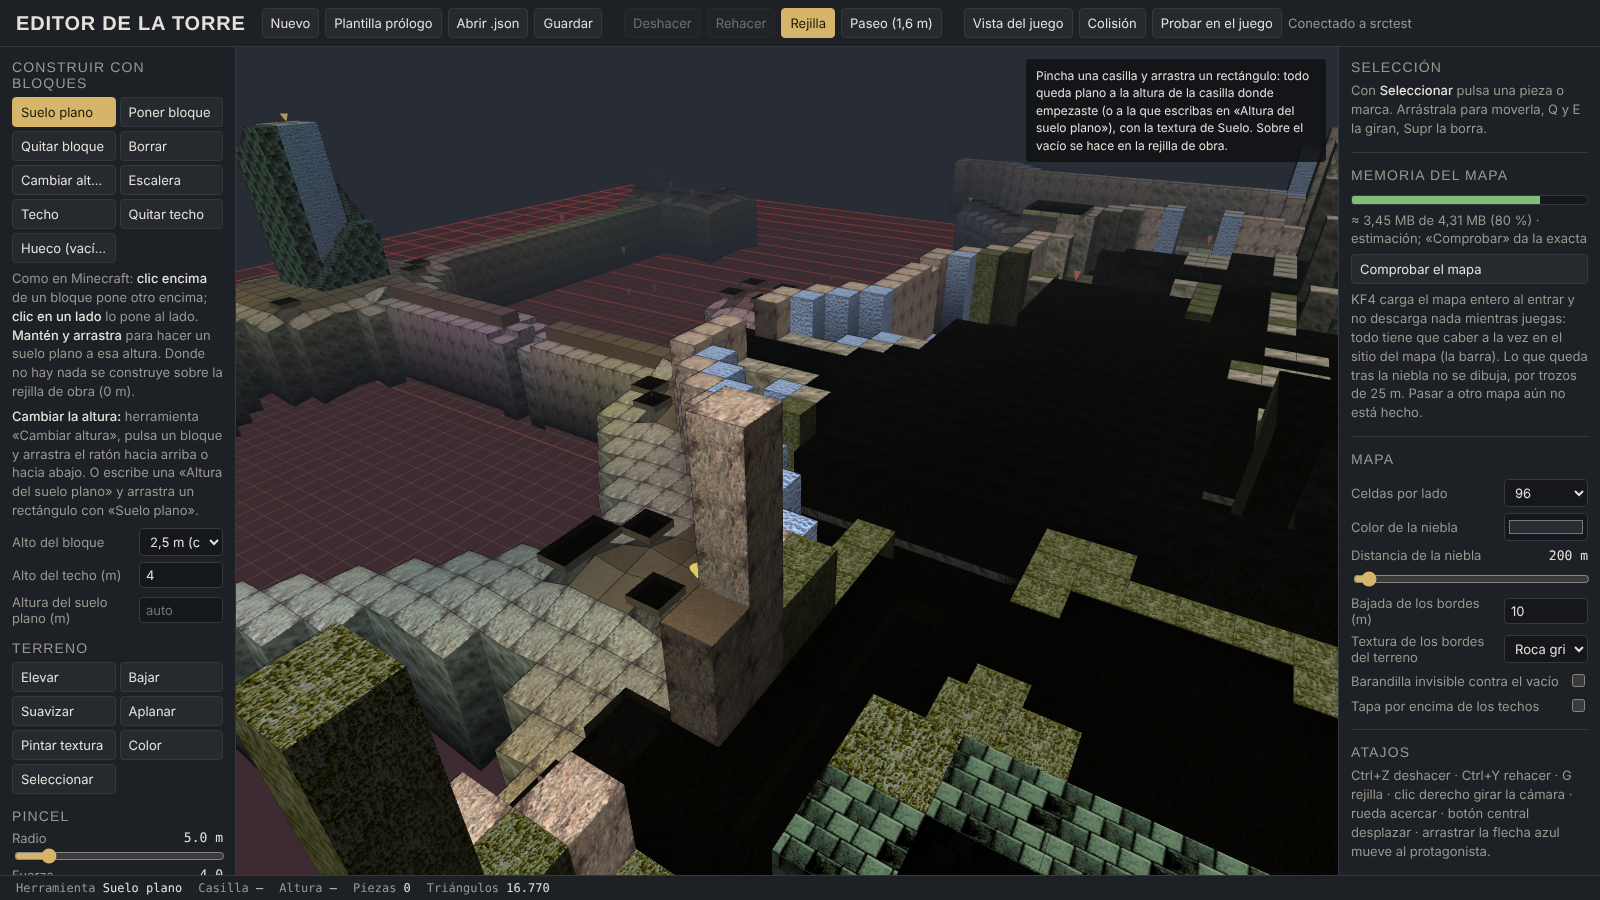
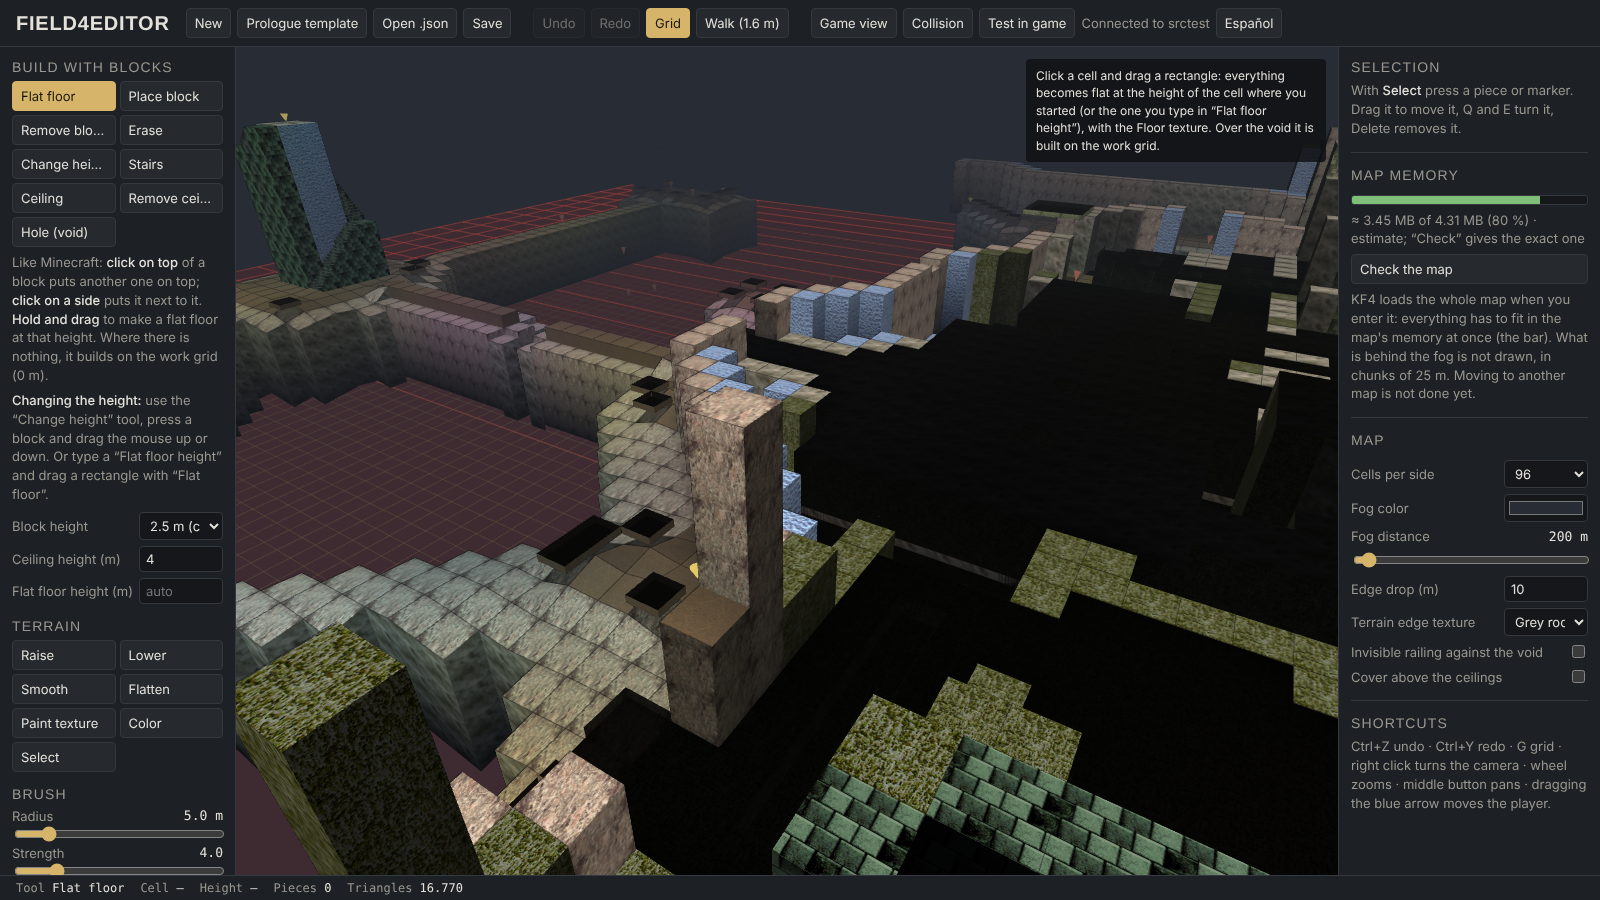
Field4Editor: English by default with a language button
Claude-Session: https://claude.ai/code/session_012tCJYJKWJWe7VZwVvKdQwq

diff --git a/engine/editor_torre.html b/engine/editor_torre.html
@@ -1,4 +1,4 @@
-<title>Editor de La Torre</title>
+<title>Field4Editor</title>
 <meta name="claude:viewport-fit-sides" content="cover">
 <link rel="preconnect" href="https://fonts.googleapis.com">
 <link rel="stylesheet" href="https://fonts.googleapis.com/css2?family=Barlow+Condensed:wght@500;700&family=IBM+Plex+Sans:wght@400;500&family=IBM+Plex+Mono:wght@400&display=swap">
@@ -103,7 +103,7 @@ dialog textarea { width: 100%; height: 300px; background: var(--bg); color: var(
 
 <div class="app">
   <header>
-    <h1>Editor de La Torre</h1>
+    <h1>Field4Editor</h1>
     <button id="bNuevo" title="Mapa vacío con una meseta">Nuevo</button>
     <button id="bPlantilla" title="La aldea, el puente y la torre">Plantilla prólogo</button>
     <button id="bAbrir">Abrir .json</button>
@@ -1827,5 +1827,169 @@ window.__editor = { camara, controles, get M() { return M; }, construirMundo, ce
   ponerAltura(i, j, h) { historial(); ponerAltura(i, j, h); todo(); },
   medirParcial(i, j, h) { ponerAltura(i, j, h); const t0 = performance.now(); construirMundoAhora(); return performance.now() - t0; },
   escaleraPrueba(a, b) { historial(); const p = planEscalera(a, topeCelda(...a), b, topeCelda(...b)); const { tS, tP } = texturasObra(); p.celdas.forEach(({ i, j, esc }) => { M.celdas[i + "," + j] = { f: esc[2], tex: tS, pared: tP, esc }; }); todo(); return p; } };
+})();
+</script>
+<script>
+// ---------------------------------------------------------------- idioma (Field4Editor): inglés por defecto
+// Traduce lo que se ve (textos, title, placeholder) sin tocar la lógica: un observador cambia cada texto en
+// español que aparece en la página por el suyo en inglés. El botón ES/EN guarda la elección y recarga.
+(function () {
+  let lang = "en";
+  try { lang = localStorage.getItem("field4editor_lang") || "en"; } catch (e) {}
+  const EN = {
+    "Editor de La Torre": "Field4Editor", "Field4Editor": "Field4Editor",
+    "Mapa vacío con una meseta": "Empty map with a plateau", "Nuevo": "New",
+    "La aldea, el puente y la torre": "The village, the bridge and the tower", "Plantilla prólogo": "Prologue template",
+    "Abrir .json": "Open .json", "Guardar mapa_torre.json": "Save mapa_torre.json", "Deshacer": "Undo", "Rehacer": "Redo",
+    "Rejilla": "Grid", "Pasear a la altura del jugador": "Walk around at the player's height", "Paseo (1,6 m)": "Walk (1.6 m)",
+    "Los .png que saca EXPORTAR_TEXTURAS.bat de tu ISO": "The .png files EXPORTAR_TEXTURAS.bat extracts from your ISO",
+    "Texturas del juego": "Game textures", "El mapa tal como lo construye el generador para la ISO": "The map exactly as the generator builds it for the ISO",
+    "Vista del juego": "Game view", "Paredes en rojo y suelos en verde, tal como irán al juego": "Walls in red and floors in green, as they will go into the game",
+    "Colisión": "Collision", "Guarda, genera la ISO y abre PCSX2": "Saves, builds the ISO and opens PCSX2", "Probar en el juego": "Test in game",
+    "Construir con bloques": "Build with blocks", "Como en Minecraft:": "Like Minecraft:", "clic encima": "click on top",
+    "de un bloque pone otro encima;": "of a block puts another one on top;", "clic en un lado": "click on a side",
+    "lo pone al lado.": "puts it next to it.", "Mantén y arrastra": "Hold and drag",
+    "para hacer un suelo plano a esa altura. Donde no hay nada se construye sobre la rejilla de obra (0 m).": "to make a flat floor at that height. Where there is nothing, it builds on the work grid (0 m).",
+    "Cambiar la altura:": "Changing the height:",
+    "herramienta «Cambiar altura», pulsa un bloque y arrastra el ratón hacia arriba o hacia abajo. O escribe una «Altura del suelo plano» y arrastra un rectángulo con «Suelo plano».": "use the “Change height” tool, press a block and drag the mouse up or down. Or type a “Flat floor height” and drag a rectangle with “Flat floor”.",
+    "Alto del bloque": "Block height", "0,25 m": "0.25 m", "0,5 m": "0.5 m", "1,25 m": "1.25 m", "2,5 m (cubo)": "2.5 m (cube)",
+    "Alto del techo (m)": "Ceiling height (m)", "Altura del suelo plano (m)": "Flat floor height (m)",
+    "Terreno": "Terrain", "Pincel": "Brush", "Radio": "Radius", "Fuerza": "Strength", "Escalón de altura": "Height step",
+    "Texturas": "Textures", "Color de vértice": "Vertex color", "Color para pintar": "Paint color", "Pincel de color": "Color brush",
+    "Vértice exacto": "Exact vertex", "Suave (radio)": "Soft (radius)", "Pintar color": "Paint color",
+    "Los puntos blancos marcan los vértices que vas a pintar. Con": "The white dots mark the vertices you will paint. With",
+    "pintas solo la esquina más cercana: oscurece la esquina de un cubo y la cara hace el degradado sola. Con": "you only paint the nearest corner: darken a cube's corner and the face makes the gradient by itself. With",
+    "Suave": "Soft",
+    "pintas todo lo que cabe en el Radio. El juego guarda ese color en cada vértice; «Quitar color» lo deja como estaba.": "you paint everything within the Radius. The game stores that color in each vertex; “Remove color” puts it back as it was.",
+    "Piezas": "Pieces", "Marcas": "Markers", "El protagonista es la flecha": "The player is the", "azul": "blue arrow",
+    ": arrástrala con cualquier herramienta para moverlo, y con ella elegida, Q y E lo giran. Lo mismo con el guardado (turquesa), los objetos (amarillo) y los enemigos (rojo).": ": drag it with any tool to move it, and with it selected, Q and E turn it. The same goes for the save point (turquoise), items (yellow) and enemies (red).",
+    "Paseo · W A S D andar · arrastra para mirar · Esc salir": "Walk · W A S D to move · drag to look · Esc to exit",
+    "Selección": "Selection", "Con": "With", "Seleccionar": "Select",
+    "pulsa una pieza o marca. Arrástrala para moverla, Q y E la giran, Supr la borra.": "press a piece or marker. Drag it to move it, Q and E turn it, Delete removes it.",
+    "Memoria del mapa": "Map memory", "Monta el 099.map entero como Probar en el juego, sin tocar la ISO": "Builds the whole 099.map like Test in game, without touching the ISO",
+    "Comprobar el mapa": "Check the map",
+    "KF4 carga el mapa entero al entrar y no descarga nada mientras juegas: todo tiene que caber a la vez en el sitio del mapa (la barra). Lo que queda tras la niebla no se dibuja, por trozos de": "KF4 loads the whole map when you enter it: everything has to fit in the map's memory at once (the bar). What is behind the fog is not drawn, in chunks of",
+    "m. Pasar a otro mapa aún no está hecho.": "m. Moving to another map is not done yet.",
+    "Mapa": "Map", "Celdas por lado": "Cells per side", "Color de la niebla": "Fog color", "Distancia de la niebla": "Fog distance",
+    "Bajada de los bordes (m)": "Edge drop (m)", "Textura de los bordes del terreno": "Terrain edge texture",
+    "Barandilla invisible contra el vacío": "Invisible railing against the void", "Tapa por encima de los techos": "Cover above the ceilings",
+    "Atajos": "Shortcuts",
+    "Ctrl+Z deshacer · Ctrl+Y rehacer · G rejilla · clic derecho girar la cámara · rueda acercar · botón central desplazar · arrastrar la flecha azul mueve al protagonista.": "Ctrl+Z undo · Ctrl+Y redo · G grid · right click turns the camera · wheel zooms · middle button pans · dragging the blue arrow moves the player.",
+    "Herramienta": "Tool", "Casilla": "Cell", "Altura": "Height", "Triángulos": "Triangles",
+    "Este visor no deja guardar el archivo directamente. Copia el texto y guárdalo como mapa_torre.json en la carpeta del juego.": "This viewer can't save the file directly. Copy the text and save it as mapa_torre.json in the game folder.",
+    "Copiar": "Copy", "Cerrar": "Close",
+    // herramientas
+    "Suelo plano": "Flat floor", "Poner bloque": "Place block", "Quitar bloque": "Remove block", "Borrar": "Erase",
+    "Cambiar altura": "Change height", "Escalera": "Stairs", "Techo": "Ceiling", "Quitar techo": "Remove ceiling", "Hueco (vacío)": "Hole (void)",
+    "Elevar": "Raise", "Bajar": "Lower", "Suavizar": "Smooth", "Aplanar": "Flatten", "Pintar textura": "Paint texture", "Color": "Color",
+    "Inicio": "Start", "Guardado": "Save point", "Objeto": "Item", "Enemigo": "Enemy",
+    "Teñir": "Tint", "Aclarar": "Lighten", "Oscurecer": "Darken", "Quitar color": "Remove color",
+    "Suelo": "Floor", "Pared": "Wall",
+    // piezas, objetos, enemigos, texturas
+    "Casa": "House", "Columna": "Column", "Murete": "Low wall", "Portal": "Gateway", "Escalinata": "Staircase", "Puente": "Bridge",
+    "Barbacana": "Barbican", "Torre": "Tower", "Ruina de columnas": "Column ruin",
+    "Hierba": "Herb", "Jugo herbal": "Herb Juice", "Remedio": "Remedy", "Cachiporra": "Club", "Espada básica": "Basic Sword",
+    "Escudo de madera": "Wooden Shield", "Casco de cuero": "Leather Helm", "Chaleco de retazos": "Patchwork Vest", "Cristal de fuego": "Fire Crystal",
+    "Planta": "Plant", "Escarabajo": "Beetle", "Seta": "Mushroom", "Murciélago": "Bat",
+    "Vacío": "Void", "Losas": "Flagstones", "Sillar": "Ashlar", "Muro": "Wall stone", "Roca": "Rock", "Roca gris": "Grey rock",
+    "Musgo": "Moss", "Grava": "Gravel", "Piedra lisa": "Smooth stone", "Ladrillo": "Brick", "Estrías": "Grooves", "Madera": "Wood",
+    "Friso": "Frieze", "Nicho": "Niche", "Cornisa": "Cornice", "Chimenea": "Chimney", "Pisos": "Floors", "Rota": "Broken",
+    "Tejado hundido": "Collapsed roof", "En ruinas": "Ruined", "Tipo": "Type",
+    // inspector
+    "Alto (m)": "Height (m)", "Alto de la chimenea": "Chimney height", "Alto del tejado": "Roof height",
+    "Altura fija (vacío = el suelo)": "Fixed height (empty = the floor)", "Ancho (m)": "Width (m)", "Fondo (m)": "Depth (m)",
+    "Giro (grados)": "Rotation (degrees)", "Lado (m)": "Side (m)", "Lado de la puerta": "Door side", "Largo (m)": "Length (m)",
+    "Radio (m)": "Radius (m)", "Rumbo (grados)": "Heading (degrees)", "Subida (m)": "Rise (m)",
+    "Inicio del jugador": "Player start", "Objeto del suelo": "Floor item", "Punto de guardado": "Save point",
+    // ayudas
+    "Aplana el terreno a la altura donde empiezas a pintar.": "Flattens the terrain to the height where you start painting.",
+    "Arrastra hasta un bloque de otra altura": "Drag to a block at another height",
+    "Arrastra para quitar el techo de esas casillas.": "Drag to remove the ceiling from those cells.",
+    "Arrastra sobre casillas: techo a la altura del bloque más alto de la zona más el alto del techo. Con paredes alrededor, el interior queda en penumbra.": "Drag over cells: a ceiling at the height of the highest block in the area plus the ceiling height. With walls around, the inside is left in shadow.",
+    "Arrastra: abre el vacío. En el juego, caer ahí mata (la zona roja de abajo).": "Drag: opens the void. In the game, falling there kills you (the red area below).",
+    "Baja el terreno con el pincel.": "Lowers the terrain with the brush.",
+    "Clic en un bloque: le quita uno de alto. Arrastra para rebajar todo a esa altura.": "Click a block: removes one level. Drag to lower everything to that height.",
+    "Clic encima de un bloque: pone otro encima. Clic en un lado: lo pone al lado. Mantén pulsado y arrastra: hace un suelo plano a esa altura. Arriba usa la textura de Suelo y los lados la de Pared.": "Click on top of a block: puts another on top. Click on a side: puts it next to it. Hold and drag: makes a flat floor at that height. The top uses the Floor texture and the sides the Wall one.",
+    "Pincha o arrastra: borra lo que tocas. Un bloque desaparece entero; si ya no queda nada encima del terreno, la casilla se queda vacía.": "Click or drag: erases what you touch. A block goes away entirely; if nothing is left above the terrain, the cell is left empty.",
+    "Pincha una casilla y arrastra un rectángulo: todo queda plano a la altura de la casilla donde empezaste (o a la que escribas en «Altura del suelo plano»), con la textura de Suelo. Sobre el vacío se hace en la rejilla de obra.": "Click a cell and drag a rectangle: everything becomes flat at the height of the cell where you started (or the one you type in “Flat floor height”), with the Floor texture. Over the void it is built on the work grid.",
+    "Pinta el color de los vértices con el modo elegido (teñir, aclarar, oscurecer, quitar).": "Paints the vertex color with the chosen mode (tint, lighten, darken, remove).",
+    "Pinta la textura elegida. Con «Suelo» pinta suelos, con «Pared» las caras de los lados y con «Techo» los techos.": "Paints the chosen texture. With “Floor” it paints floors, with “Wall” the side faces and with “Ceiling” the ceilings.",
+    "Pulsa en el suelo para ponerla.": "Click on the ground to place it.",
+    "Pulsa en el suelo para ponerla. Luego, con Seleccionar, la mueves, giras (Q, E) y ajustas a la derecha.": "Click on the ground to place it. Then, with Select, you move it, turn it (Q, E) and adjust it on the right.",
+    "Pulsa un bloque (o una casilla vacía de la rejilla) y, sin soltar, arrastra el ratón hacia arriba o hacia abajo: sube o baja de bloque en bloque.": "Press a block (or an empty grid cell) and, holding, drag the mouse up or down: it goes up or down one block at a time.",
+    "Pulsa un bloque y, sin soltar, arrastra hasta otro de distinta altura. Al soltar sale la escalera entre los dos, con sus peldaños. Si arrastras también de lado, la escalera es más ancha.": "Press a block and, holding, drag to another one at a different height. When you let go, the stairs appear between them, with their steps. If you also drag sideways, the stairs are wider.",
+    "Pulsa una pieza o marca para editarla; arrástrala para moverla.": "Click a piece or marker to edit it; drag it to move it.",
+    "Sube el terreno con el pincel (no toca las casillas construidas).": "Raises the terrain with the brush (it doesn't touch built cells).",
+    "Suaviza el terreno.": "Smooths the terrain.",
+    // avisos
+    "Borrador guardado en este navegador": "Draft saved in this browser", "Construyendo con el generador del juego…": "Building with the game's generator…",
+    "Ese archivo no es un mapa del editor": "That file is not an editor map", "Generando la ISO y abriendo PCSX2…": "Building the ISO and opening PCSX2…",
+    "Guardado mapa_torre.json": "Saved mapa_torre.json", "Guardado mapa_torre.json en la carpeta del juego": "Saved mapa_torre.json in the game folder",
+    "Los dos bloques están a la misma altura": "Both blocks are at the same height", "Mapa nuevo (Ctrl+Z para volver)": "New map (Ctrl+Z to go back)",
+    "No reconozco esos archivos: usa los .png de la carpeta kf4_texturas": "I don't recognise those files: use the .png files from the kf4_texturas folder",
+    "No se ha guardado": "Not saved", "Plantilla del prólogo cargada (Ctrl+Z para volver)": "Prologue template loaded (Ctrl+Z to go back)",
+    "Selecciona y copia con Ctrl+C": "Select and copy with Ctrl+C", "Todo bien: cabe y no hay avisos": "All good: it fits and there are no warnings",
+    "caer al vacío mata": "falling into the void kills", "Copiado": "Copied", "Deshecho": "Undone", "Rehecho": "Redone", "Sin ISO": "No ISO",
+    "Abierto como archivo: para ver el juego de verdad, cierra esto y haz doble clic en EDITOR.bat": "Opened as a file: to see the real game, close this and double-click EDITOR.bat",
+    "Duplicar": "Duplicate", "Guardar": "Save", "libre": "free", "Abrir": "Open",
+  };
+  const REGLAS = [
+    [/^(\d+) × (\d+) casillas$/, "$1 × $2 cells"],
+    [/^Escalera de (.+) m a (.+) m · (\d+) casillas? de largo$/, "Stairs from $1 m to $2 m · $3 cell(s) long"],
+    [/^Escalera de (.+) m a (.+) m$/, "Stairs from $1 m to $2 m"],
+    [/^Generador del juego: (.+) triángulos$/, "Game generator: $1 triangles"],
+    [/^(\d+) texturas del juego cargadas$/, "$1 game textures loaded"],
+    [/^(≈ )?(.+) MB de (.+) MB \((\d+) %\) · cuenta exacta$/, "$1$2 MB of $3 MB ($4 %) · exact count"],
+    [/^(≈ )?(.+) MB de (.+) MB \((\d+) %\) · estimación; «Comprobar» da la exacta$/, "$1$2 MB of $3 MB ($4 %) · estimate; “Check” gives the exact one"],
+    [/^Conectado a (.+)$/, "Connected to $1"],
+    [/^Abierto (.+)$/, "Opened $1"],
+    [/^El generador ha fallado: (.*)$/s, "The generator failed: $1"],
+    [/^No se ha podido guardar: (.*)$/s, "Could not save: $1"],
+    [/^No se ha podido comprobar: (.*)$/s, "Could not check: $1"],
+    [/^No he podido lanzar el juego: (.*)$/s, "Could not launch the game: $1"],
+  ];
+  function tr(t) {
+    const k = t.trim();
+    if (!k) return null;
+    let r = EN[k];
+    if (r === undefined && k.startsWith("Poner ") && EN[k.slice(6)]) r = "Place " + EN[k.slice(6)];
+    if (r === undefined) for (const [re, s] of REGLAS) if (re.test(k)) { r = k.replace(re, s); break; }
+    if (r === undefined || r === k) return null;
+    if (r.includes(" MB of ")) r = r.replace(/(\d),(\d)/g, "$1.$2");      // 3,45 MB -> 3.45 MB
+    return t.replace(k, r);
+  }
+  function nodo(n) {
+    if (n.nodeType === 3) {
+      const p = n.parentNode && n.parentNode.nodeName;
+      if (p === "SCRIPT" || p === "STYLE" || p === "TEXTAREA") return;
+      const r = tr(n.nodeValue); if (r !== null) n.nodeValue = r;
+    } else if (n.nodeType === 1) {
+      for (const a of ["title", "placeholder", "aria-label"]) {
+        const v = n.getAttribute(a); if (v) { const r = tr(v); if (r !== null) n.setAttribute(a, r); }
+      }
+      if (n.nodeName === "SCRIPT" || n.nodeName === "STYLE" || n.nodeName === "TEXTAREA") return;
+      for (const c of n.childNodes) nodo(c);
+    }
+  }
+  // el botón de idioma
+  const b = document.createElement("button");
+  b.id = "bIdioma";
+  b.textContent = lang === "en" ? "Español" : "English";
+  b.title = lang === "en" ? "Cambiar el editor a español" : "Switch the editor to English";
+  b.onclick = () => { try { localStorage.setItem("field4editor_lang", lang === "en" ? "es" : "en"); } catch (e) {} location.reload(); };
+  const hdr = document.querySelector("header");
+  if (hdr) hdr.appendChild(b);
+  document.title = "Field4Editor";
+  const h1 = document.querySelector("header h1"); if (h1) h1.textContent = "Field4Editor";
+  if (lang !== "en") return;
+  document.documentElement.lang = "en";
+  nodo(document.body);
+  new MutationObserver((ms) => {
+    for (const m of ms) {
+      if (m.type === "characterData") nodo(m.target);
+      else if (m.type === "attributes") nodo(m.target);
+      else m.addedNodes.forEach(nodo);
+    }
+  }).observe(document.body, { childList: true, subtree: true, characterData: true, attributes: true, attributeFilter: ["title", "placeholder", "aria-label"] });
 })();
 </script>

diff --git a/engine/kf4_editor_local.py b/engine/kf4_editor_local.py
@@ -1,6 +1,6 @@
 #!/usr/bin/env python3
 """
-kf4_editor_local.py - El Editor de La Torre en tu PC, conectado a tu ISO de King's Field IV.
+kf4_editor_local.py - Field4Editor (el editor de mapas) en tu PC, conectado a tu ISO de King's Field IV.
 
 Doble clic en EDITOR.bat (o: python kf4_editor_local.py). Abre el editor en el navegador y:
   - carga las texturas directamente de la ISO (no hace falta exportarlas);
@@ -225,7 +225,7 @@ class Manejador(BaseHTTPRequestHandler):
 
 
 def main():
-    print("Editor de La Torre")
+    print("Field4Editor")
     cargar_texturas()
     if ESTADO["error"]:
         print("AVISO:", ESTADO["error"])

diff --git a/launcher/fieldiv_engine.py b/launcher/fieldiv_engine.py
@@ -19,7 +19,7 @@ VERSION = "Alpha 0.1"
 
 OPCIONES = [
     ("1", "Portar un nivel de King's Field y jugarlo", "JUGAR_KF2.bat"),
-    ("2", "Editor de mapas", "EDITOR.bat"),
+    ("2", "Field4Editor (editor de mapas)", "EDITOR.bat"),
     ("3", "Generar el valle del acantilado y jugarlo", "JUGAR_VALLE.bat"),
     ("4", "Parche de HUD y controles para tu ISO (sin cambiar mapas)", "PARCHE_HUD.bat"),
     ("5", "Ver el changelog", None),

diff --git a/README.md b/README.md
@@ -20,7 +20,9 @@ King's Field games into KFIV, a map editor, and a HUD / controls patch.
 |---|---|
 | ![tunnel](docs/img/tunel.png) | ![equipment](docs/img/equipo_exp.png) |
 
-### Map editor
+### Field4Editor (map editor)
+
+Early stage: English by default, with an English / Español button.
 
 ![Map editor](docs/img/editor.png)
 
@@ -30,7 +32,7 @@ King's Field games into KFIV, a map editor, and a HUD / controls patch.
 2. Put **your own** King's Field IV ISO next to `FIELDIV-ENGINE.exe`.
 3. Open `FIELDIV-ENGINE.exe` and pick an option:
    - port a King's Field level and play it,
-   - map editor,
+   - Field4Editor (map editor),
    - cliff valley,
    - HUD / controls patch only (writes a patched copy; your original ISO is not changed),
    - changelog.
